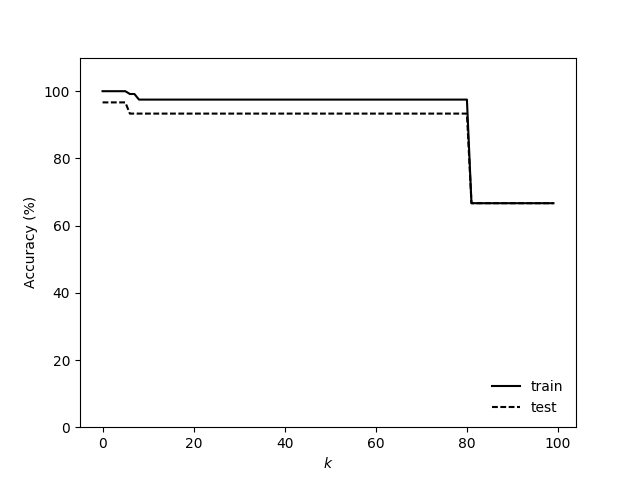
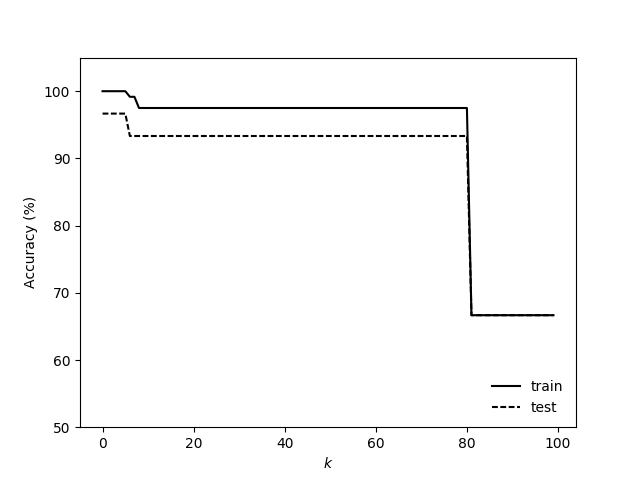
part 2 update

diff --git a/asgn_3/src/dtree.py b/asgn_3/src/dtree.py
@@ -21,13 +21,6 @@ class TrainTree(object):
         # stopping criteria
         self.k = k
 
-        # train tree
-        self.tree = self.train(self.x, self.y)
-
-        self.missed = 0.0
-        self.get_missed(self.tree)
-        self.accuracy = (1 - (self.missed/len(self.x[0])))*100
-
     def _entropy(self, y):
         """
         Compute entropy from target values: H(y) = -sum(pi*log2(pi))
@@ -113,14 +106,14 @@ class TrainTree(object):
 
         # if y only has 1 label then return it
         if len(set(y)) == 1:
-            rv = [0,0,0]
+            rv = np.zeros(len(np.unique(self.y)))
             i = int(y[0])
             rv[i] = len(y)
             return rv
 
         # if number of instances in y is less than k then return y
         if len(y) < self.k:
-            rv = [0,0,0]
+            rv = np.zeros(len(np.unique(self.y)))
             u,c = np.unique(y, return_counts=True)
             for i in range(len(c)):
                 rv[int(u[i])] = c[i]
@@ -145,7 +138,7 @@ class TrainTree(object):
 
         # if there is no gain then return y
         if I <= 0:
-            rv = [0,0,0]
+            rv = np.zeros(len(np.unique(self.y)))
             i = int(y[0])
             rv[i] = len(y)
             return rv
@@ -157,47 +150,122 @@ class TrainTree(object):
 
         return tree
 
+    def get_accuracy(self, tree):
 
-    def get_missed(self, tree):
+        self.missed = 0.0
+        self._get_missed(tree)
+        accuracy = (1 - (self.missed/len(self.x[0])))*100
+        return accuracy
+
+
+    def _get_missed(self, tree):
         """
         Sum the total number of missclassifications
         """
 
         for v in tree.values():
             if isinstance(v, dict):
-                self.get_missed(v)
+                self._get_missed(v)
             else:
                 if np.count_nonzero(v) > 1:
-                    self.missed += v[v!=0].min()
+                    self.missed += v[np.where(v != 0)].min()
+
+
+class RandomForest(TrainTree):
+
+    def __init__(self, train_csv, k, L):
+        """
+        Subclass of TrainTree. Builds L number of trees
+        """
+        # call super constructor
+        super(RandomForest, self).__init__(train_csv, k)
+
+        self.forest = []
+        self.accuracy = []
+
+        for i in range(0, L):
+            x,y = self.randomize_wr(self.x, self.y, len(self.x[0]))
+            tree = self.train(x, y, feature_bagging=True)
+            self.forest.append(tree)
+        for tree in self.forest:
+            self.accuracy.append(self.get_accuracy(tree))
+        self.accuracy = np.mean(self.accuracy)
+
+    def randomize_wr(self, x, y, n):
+        """
+        Generates a random dataset of size n drawing with replacement from
+        original dataset
+        """
+
+        xr = np.zeros((len(x), n))
+        yr = np.zeros(n)
+        for s in range(0, n):
+            r = random.randint(0, len(x[0])-1)
+            xr[:,s] = np.copy(x[:,r])
+            yr[s] = np.copy(y[r])
+
+        return xr, yr
+
 
 class TestTree(object):
 
-    def __init__(self, train_csv, trained_tree):
+    def __init__(self, test_csv, tree):
         """ Constructor """
 
-        data = np.genfromtxt(train_csv, delimiter=';')
+        data = np.genfromtxt(test_csv, delimiter=';')
         self.x = data[:,0:4].T
         self.y = data[:,4].astype(np.int)
 
-        self.yhat = self.test(trained_tree)
-
         missed = 0.0
-        for i in range(len(self.y)):
-            if self.y[i] != self.yhat[i]:
-                missed += 1
-        self.accuracy = (1 - (missed/len(self.y)))*100
+        if isinstance(tree, dict):
+            self.yhat = self.test(tree)
 
-    def test(self, trained_tree):
+            for i in range(len(self.y)):
+                if self.y[i] != self.yhat[i]:
+                    missed += 1
+            self.accuracy = (1 - (missed/len(self.y)))*100
+        else:
+            yhat = np.zeros((len(tree), len(self.y)))
+
+            for i in range(len(tree)):
+                yhat[i] = self.test(tree[i])
+            yhat_mv = self.majority_vote(yhat)
+            for i in range(len(self.y)):
+                if self.y[i] != yhat_mv[i]:
+                    missed += 1
+            self.accuracy = (1 - (missed/len(self.y)))*100
+
+    def test(self, tree):
+        """
+        Classify each feature in the test set base on trained tree
+        """
 
         x = self.x
 
         yhat = []
         for i in range(len(x[0])):
-            yhat.append(self.classify_sample(x[:,i], trained_tree))
+            yhat.append(self.classify_sample(x[:,i], tree))
 
         return np.array(yhat)
 
+    def majority_vote(self, yhat):
+        """
+        Majority voting for all trees
+        """
+
+        yhat_mv = np.zeros(len(yhat[0]))
+        for i in range(len(yhat[0])):
+            u,c = np.unique(yhat[:,i], return_counts=True)
+            yhat_mv[i] = u[int(np.argmax(c))]
+
+        return yhat_mv
+
+
+
     def classify_sample(self, x, tree):
+        """
+        Classify specified sample
+        """
 
         Q = []
         Q.append(tree)
@@ -205,7 +273,7 @@ class TestTree(object):
             sub_tree = Q.pop(0)
             for k in sub_tree.keys():
                 if eval(k):
-                    if isinstance(sub_tree[k], list):
+                    if isinstance(sub_tree[k], np.ndarray):
                         return np.argmax(sub_tree[k])
                     else:
                         Q.append(sub_tree[k])
@@ -213,29 +281,55 @@ class TestTree(object):
 
 if __name__ == '__main__':
 
-    train = TrainTree('data/iris_train.csv', 10)
-    pprint(train.tree)
-    test = TestTree('data/iris_test.csv', train.tree)
-    print test.accuracy
-
     # PART 1
-
     # iterate k
     train_acc = []
     test_acc = []
     for i in range(0, 100):
         train = TrainTree('data/iris_train.csv', i)
-        test = TestTree('data/iris_test.csv', train.tree)
-        train_acc.append(train.accuracy)
+        tree = train.train(train.x, train.y)
+        test_accuracy = train.get_accuracy(tree)
+        test = TestTree('data/iris_test.csv', tree)
+        train_acc.append(test_accuracy)
         test_acc.append(test.accuracy)
 
+    # plot training and testing error over k
     fig = plt.figure()
     plt.plot(train_acc, '-k', label='train')
     plt.plot(test_acc, '--k', label='test')
     plt.legend(loc='lower right')
-    plt.ylim((0,110))
+    plt.ylim((50,105))
     plt.xlabel("$k$")
     plt.ylabel("Accuracy (%)")
     fig.savefig('iter_k.png')
 
-   # PART 2
+    # PART 2
+    L = [5,10,15,20,25,30]
+    K = range(0,100)
+    N = 10
+    for l in L:
+        train_acc_k = []
+        test_acc_k = []
+        for k in K:
+            train_acc = []
+            test_acc = []
+            for n in range(N):
+                rf = RandomForest('data/iris_train.csv', k, l)
+                test = TestTree('data/iris_train.csv', rf.forest)
+                train_acc.append(rf.accuracy)
+                test_acc.append(test.accuracy)
+            print np.mean(train_acc), np.mean(test_acc)
+            train_acc_k.append(np.mean(train_acc))
+            test_acc_k.append(np.mean(test_acc))
+
+        # for each L, plot testing and training error over k
+        fig = plt.figure()
+        plt.plot(train_acc_k, '-k', label='train')
+        plt.plot(test_acc_k, '--k', label='test')
+        plt.legend(loc='lower right')
+        plt.title("$L$={0}".format(l))
+        plt.ylim((50,105))
+        plt.xlabel("$k$")
+        plt.ylabel("Accuracy (%)")
+        fig.savefig('L_{0}.png'.format(l))
+
